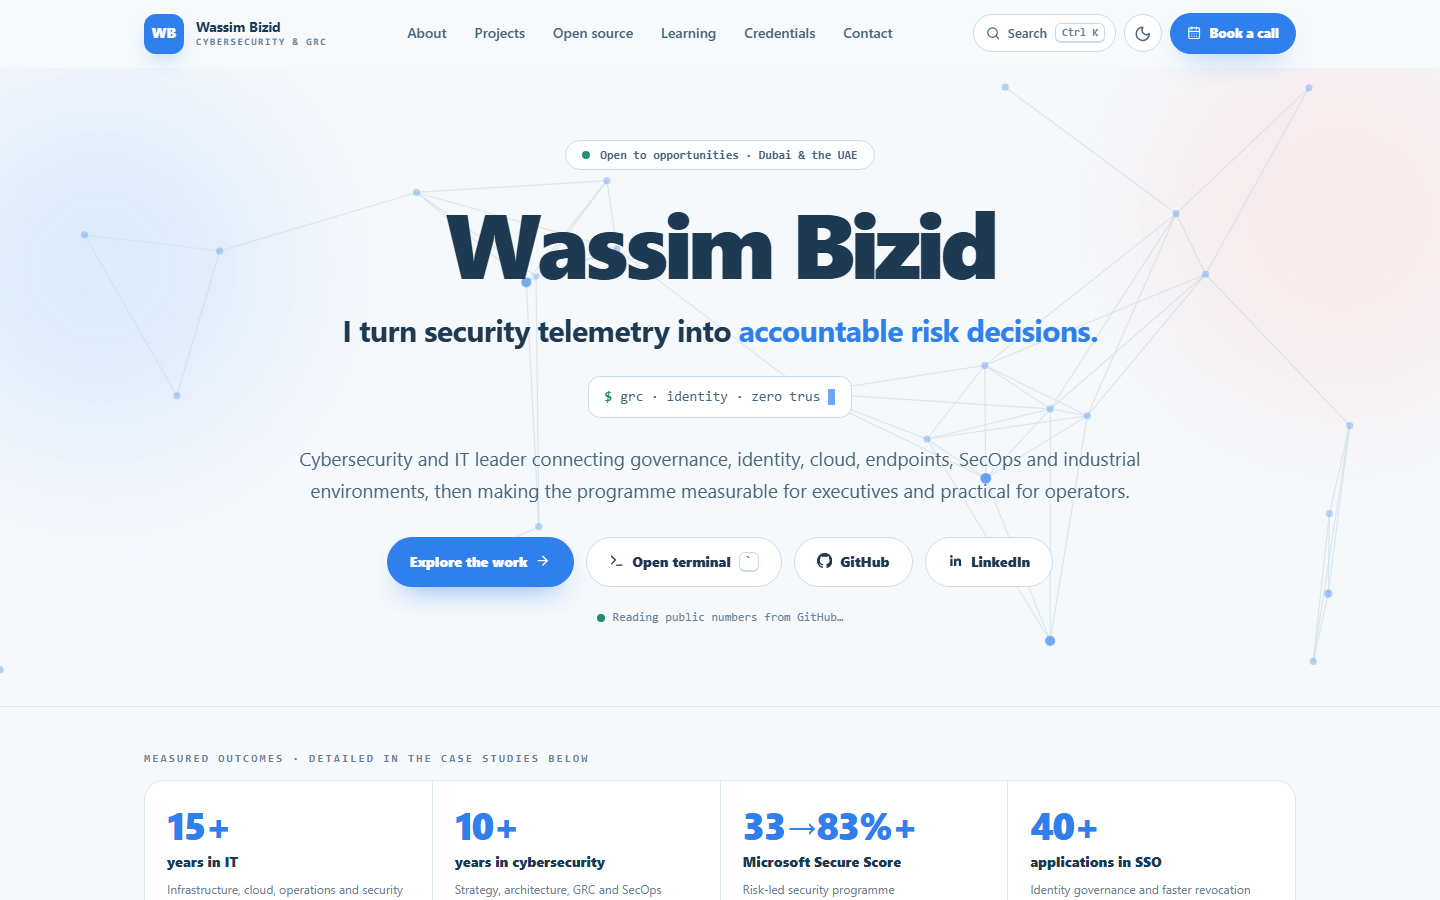
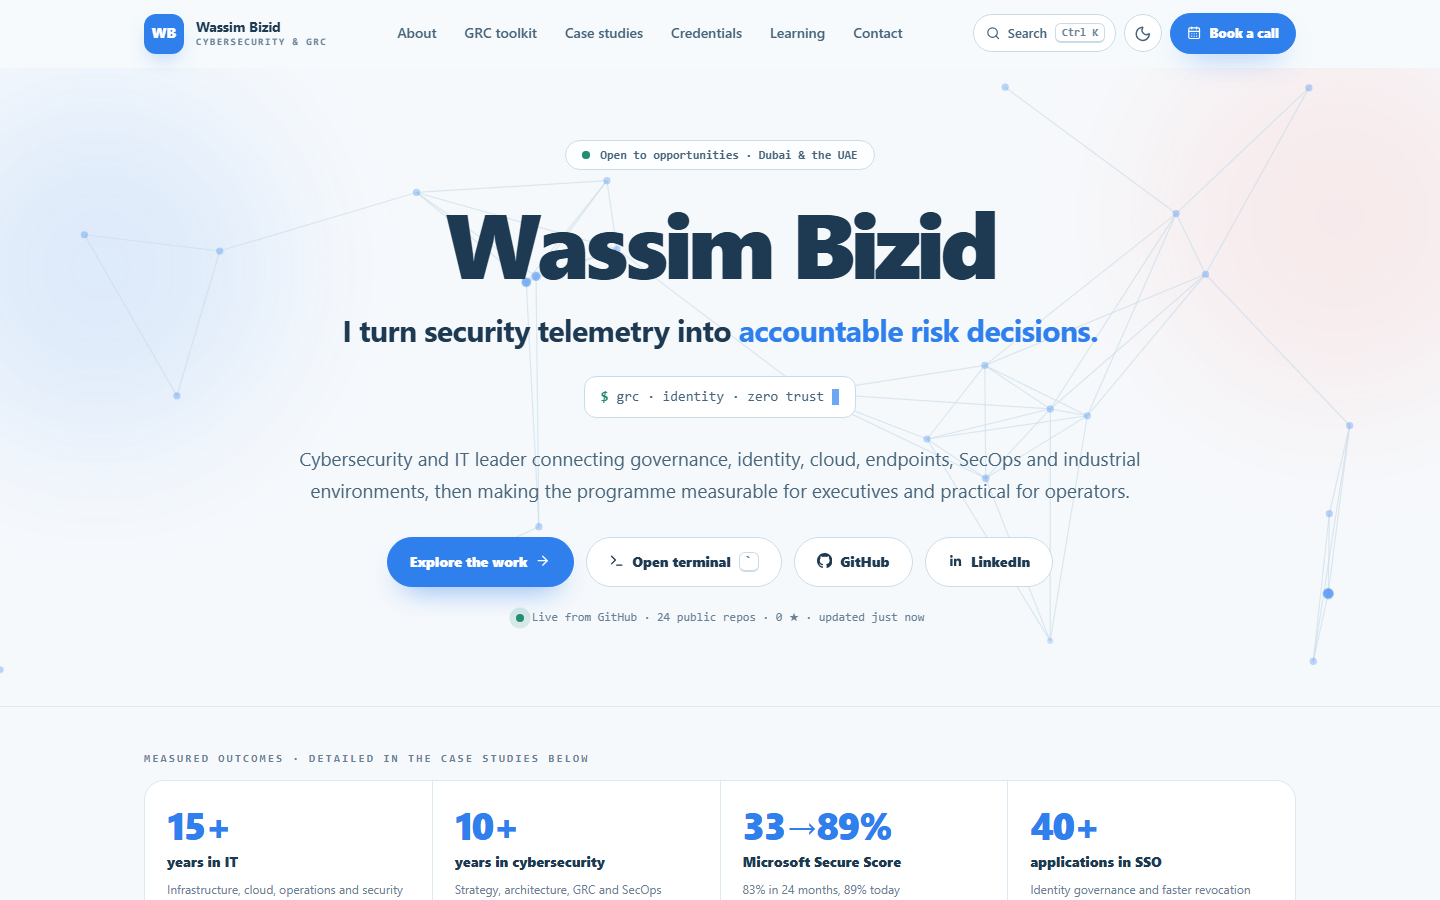
Nineteen open-source projects, leadership metrics, GRC Manager positioning, licence and security policy, reload on new version

diff --git a/js/core.js b/js/core.js
@@ -298,7 +298,7 @@
   /* ---------- open source (with live GitHub data) ---------- */
   var ossCards = {};
   var ossWrap = h("div", { class: "grid g2 mt" });
-  var OSS_ORDER = ["UAE IA Compliance Matrix", "Application Risk Assessment Template", "Risk Treatment Plan Generator", "Vendor Risk Assessment (TPRM) Template", "Cybersecurity RACI Matrices Library", "ISO 27001 & ISO 42001 Toolkit", "GRC Control Crosswalk", "Control Evidence Collector", "Policy-as-Code Starter", "AI Risk Assessment Template (ISO/IEC 42001)", "Threat Modeling Toolkit", "CISO Executive Dashboard", "Security Metrics & KPI Library", "SOC Maturity Assessment Tool", "SOC Detection Rules & Playbooks", "Incident Response Playbooks Pack", "Public Scripts"];
+  var OSS_ORDER = ["UAE IA Compliance Matrix", "ISO 27001 ISMS Lab", "Executive Risk Pack", "Application Risk Assessment Template", "Risk Treatment Plan Generator", "Vendor Risk Assessment (TPRM) Template", "Cybersecurity RACI Matrices Library", "ISO 27001 & ISO 42001 Toolkit", "GRC Control Crosswalk", "Control Evidence Collector", "Policy-as-Code Starter", "AI Risk Assessment Template (ISO/IEC 42001)", "Threat Modeling Toolkit", "CISO Executive Dashboard", "Security Metrics & KPI Library", "SOC Maturity Assessment Tool", "SOC Detection Rules & Playbooks", "Incident Response Playbooks Pack", "Public Scripts"];
   function ossRank(p) { var k = OSS_ORDER.indexOf(p.name); return k < 0 ? 99 : k; }
   D.ownProjects.slice().sort(function (a, b) { return ossRank(a) - ossRank(b); }).forEach(function (p) {
     var slug = p.href.split("/").pop();
@@ -316,10 +316,10 @@
   /* GRC coverage: every domain points at work that already appears on this page */
   var COVERAGE = [
     ["Risk assessment & treatment", "Business-application risk assessments with owners, treatment options and an executive risk view.", ["18", "04"], ["Application Risk Assessment Template", "Risk Treatment Plan Generator"]],
-    ["Compliance & audit", "UAE IA Standard compliance matrix, ISO/IEC 27001 and 42001 control mapping, SOC 2 control evidence and an evidence collector.", ["13"], ["UAE IA Compliance Matrix", "ISO 27001 & ISO 42001 Toolkit", "GRC Control Crosswalk", "Control Evidence Collector"]],
+    ["Compliance & audit", "UAE IA Standard compliance matrix, ISO/IEC 27001 and 42001 control mapping, SOC 2 control evidence and an evidence collector.", ["13"], ["UAE IA Compliance Matrix", "ISO 27001 ISMS Lab", "ISO 27001 & ISO 42001 Toolkit", "GRC Control Crosswalk", "Control Evidence Collector"]],
     ["Third-party risk", "Vendor assessment, renewal governance and control of third-party remote access.", ["16", "08"], ["Vendor Risk Assessment (TPRM) Template"]],
     ["Policy & accountability", "Policy enforced as code, hardened baselines and clear RACI ownership.", ["01"], ["Policy-as-Code Starter", "Cybersecurity RACI Matrices Library"]],
-    ["Metrics & executive reporting", "KPIs that leadership can act on, from Secure Score progress to a CISO dashboard.", ["04"], ["CISO Executive Dashboard", "Security Metrics & KPI Library"]],
+    ["Metrics & executive reporting", "KPIs that leadership can act on, from Secure Score progress to a CISO dashboard.", ["04"], ["Executive Risk Pack", "CISO Executive Dashboard", "Security Metrics & KPI Library"]],
     ["AI governance", "AI risk assessment aligned to ISO/IEC 42001, structured threat modelling and a human-controlled agentic orchestrator.", ["23"], ["AI Risk Assessment Template (ISO/IEC 42001)", "Threat Modeling Toolkit"]],
     ["Resilience & incident governance", "Multi-site continuity design and response playbooks that keep decisions accountable.", ["17", "19"], ["Incident Response Playbooks Pack"]]
   ];

diff --git a/data/data.js b/data/data.js
@@ -168,6 +168,26 @@ window.PF_DATA = {
    "value": "< 4 h",
    "label": "recovery objective",
    "detail": "RTO and RPO designed across 3 locations"
+  },
+  {
+   "value": "8",
+   "label": "people led",
+   "detail": "Four L1 and two L2 SOC analysts plus engineers; cyber risk reported to the board"
+  },
+  {
+   "value": "USD 286k",
+   "label": "security budget managed",
+   "detail": "Tooling, services and around fifteen vendors"
+  },
+  {
+   "value": "−90%",
+   "label": "false positives",
+   "detail": "After detection tuning and response automation"
+  },
+  {
+   "value": "88",
+   "label": "initiatives delivered",
+   "detail": "Governance, identity, endpoints, network and SecOps"
   }
  ],
  "sectorExperience": [
@@ -1136,6 +1156,30 @@ window.PF_DATA = {
   }
  ],
  "ownProjects": [
+  {
+   "name": "Executive Risk Pack",
+   "description": "Quarterly board cyber-risk pack generated from CSV and YAML: one-page summary, NIST CSF 2.0 posture against target, top-ten risks with heat map, key risk indicators with RAG status, a twelve-month regulatory and assurance calendar and the decisions the board is asked to take. Markdown, Excel and PNG outputs, validated in CI; fictional sample company.",
+   "href": "https://github.com/bizidwassim-design/executive-risk-pack",
+   "tags": [
+    "Board reporting",
+    "NIST CSF 2.0",
+    "KRI",
+    "Python",
+    "Excel"
+   ]
+  },
+  {
+   "name": "ISO 27001 ISMS Lab",
+   "description": "A complete, fictional ISO/IEC 27001:2022 ISMS cycle for a 400-person UAE logistics company: context, risk assessment, Statement of Applicability, internal audit and management review, where the same assets, risks, controls and findings flow through every document. Build script, validator proving all 93 Annex A controls are covered, CI. A training lab, not a certification claim.",
+   "href": "https://github.com/bizidwassim-design/iso27001-isms-lab",
+   "tags": [
+    "ISO 27001:2022",
+    "ISMS",
+    "Statement of Applicability",
+    "Internal audit",
+    "Python"
+   ]
+  },
   {
    "name": "UAE IA Compliance Matrix",
    "description": "Single-page compliance matrix for the UAE Information Assurance Standard: 15 control families with status, owner, target date and evidence, compliance score, per-family bars, prioritised gap list, mappings to ISO/IEC 27001:2022 and NIST CSF 2.0, CSV import of your own control list, JSON/CSV export. No build step, hosted on GitHub Pages.",

diff --git a/index.html b/index.html
@@ -4,7 +4,7 @@
   <meta charset="utf-8">
   <meta name="viewport" content="width=device-width, initial-scale=1, viewport-fit=cover">
   <title>Wassim Bizid · Cybersecurity &amp; GRC Portfolio</title>
-  <meta name="description" content="Wassim Bizid, cybersecurity and GRC leader. Security that is measurable, explainable and usable: 23 case studies, 17 open-source GRC and SOC projects, certifications and field notes.">
+  <meta name="description" content="Wassim Bizid, cybersecurity and GRC leader. Security that is measurable, explainable and usable: 23 case studies, 19 open-source GRC and SOC projects, certifications and field notes.">
   <meta name="robots" content="noindex, nofollow">
   <meta name="referrer" content="no-referrer">
   <meta name="color-scheme" content="light dark">
@@ -57,7 +57,7 @@
         <h1>Wassim Bizid</h1>
         <p class="tagline">I turn security telemetry into <span class="hl">accountable risk decisions.</span></p>
         <p class="term-line" aria-hidden="true"><span class="prompt">$</span> <span id="typed"></span><span class="caret"></span></p>
-        <p class="lede">Cybersecurity and IT leader connecting governance, identity, cloud, endpoints, SecOps and industrial environments, then making the programme measurable for executives and practical for operators.</p>
+        <p class="lede">GRC Manager and security architect connecting governance, identity, cloud, endpoints, SecOps and industrial environments, then making the programme measurable for executives and practical for operators.</p>
         <div class="cta">
           <a class="btn btn-primary" href="#work">Explore the work<span data-icon="ArrowRight"></span></a>
           <button class="btn btn-ghost" id="open-terminal" type="button"><span data-icon="Terminal"></span>Open terminal <kbd>`</kbd></button>

diff --git a/js/overlays.js b/js/overlays.js
@@ -299,5 +299,8 @@
   fromHash();
   if ("serviceWorker" in navigator && (location.protocol === "https:" || location.hostname === "localhost")) {
     window.addEventListener("load", function () { navigator.serviceWorker.register("sw.js").catch(function () { /* offline support is optional */ }); });
+    /* a new version took control: reload once so returning visitors see current content, not the old cache */
+    var reloaded = false;
+    navigator.serviceWorker.addEventListener("controllerchange", function () { if (navigator.serviceWorker.controller && !reloaded && !sessionStorage.getItem("pf-reloaded")) { reloaded = true; try { sessionStorage.setItem("pf-reloaded", "1"); } catch (e) { /* ignore */ } location.reload(); } });
   }
 })();

diff --git a/sw.js b/sw.js
@@ -1,5 +1,5 @@
 /* Offline support: precache the shell, cache images on first view, never cache the GitHub API. */
-const VERSION = "pf-v7";
+const VERSION = "pf-v8";
 const SHELL = ["./", "index.html", "css/style.css", "js/core.js", "js/overlays.js", "data/data.js", "manifest.webmanifest", "assets/brand/icon.svg", "assets/brand/icon-192.png"];
 
 self.addEventListener("install", (e) => {

diff --git a/SECURITY.md b/SECURITY.md
@@ -1,0 +1,34 @@
+# Security policy
+
+## Reporting a vulnerability
+
+If you find a security problem in this repository — a formula or script that could be abused, a detection rule that
+can be trivially bypassed in a way the documentation does not state, a dependency issue, or any content that could
+put a user at risk — please report it privately:
+
+1. **GitHub private vulnerability reporting** — open the *Security* tab of this repository and choose
+   *Report a vulnerability*. This is the preferred channel.
+2. Or through the contact section of [my portfolio](https://bizidwassim-design.github.io/wassim-bizid-portfolio/#contact).
+
+Please do **not** open a public issue for security reports.
+
+You will receive an acknowledgement within **5 business days** and a resolution or a status update within **30 days**.
+Credit is given in the changelog unless you prefer to stay anonymous.
+
+## Scope
+
+* All files in this repository (templates, rules, scripts, documentation, web assets).
+* The GitHub Pages site built from this repository, where one exists.
+
+Out of scope: the standards referenced (ISO, NIST, CIS, MITRE), third-party libraries loaded from a CDN (report those
+upstream), and the way you deploy or adapt the content in your own environment.
+
+## Supported versions
+
+Only the latest commit on `main` is supported. Download templates from the latest release or from `main`.
+
+## Design commitments
+
+* No macros, no executable content in office documents; workbooks are generated by reviewable Python scripts.
+* No telemetry, analytics or tracking in any web asset; third-party scripts are pinned and integrity-checked.
+* No real indicators, credentials, client names or internal data — fictional samples only.

diff --git a/README.md b/README.md
@@ -4,16 +4,16 @@
 
 [![Live site](https://img.shields.io/badge/live-portfolio-2F80ED?style=for-the-badge&logo=githubpages&logoColor=white)](https://bizidwassim-design.github.io/wassim-bizid-portfolio/)
 [![Deploy](https://github.com/bizidwassim-design/wassim-bizid-portfolio/actions/workflows/pages.yml/badge.svg)](https://github.com/bizidwassim-design/wassim-bizid-portfolio/actions/workflows/pages.yml)
-![Zero dependencies](https://img.shields.io/badge/dependencies-0-42C7A5?style=flat-square)
-![No build step](https://img.shields.io/badge/build-none-8B7CF6?style=flat-square)
-![Strict CSP](https://img.shields.io/badge/CSP-strict-24445D?style=flat-square)
+[![Zero dependencies](https://img.shields.io/badge/dependencies-0-42C7A5?style=flat-square)](https://github.com/bizidwassim-design?tab=repositories)
+[![No build step](https://img.shields.io/badge/build-none-8B7CF6?style=flat-square)](https://github.com/bizidwassim-design?tab=repositories)
+[![Strict CSP](https://img.shields.io/badge/CSP-strict-24445D?style=flat-square)](https://github.com/bizidwassim-design?tab=repositories)
 
 </div>
 
 ## > whoami
 
 Cybersecurity and GRC leader. This repository is the source of my interactive portfolio: 23 anonymised case
-studies, 17 open-source GRC and SOC projects, credentials and a short story of how I work.
+studies, 19 open-source GRC and SOC projects, credentials and a short story of how I work.
 
 **Open it → [bizidwassim-design.github.io/wassim-bizid-portfolio](https://bizidwassim-design.github.io/wassim-bizid-portfolio/)**
 
